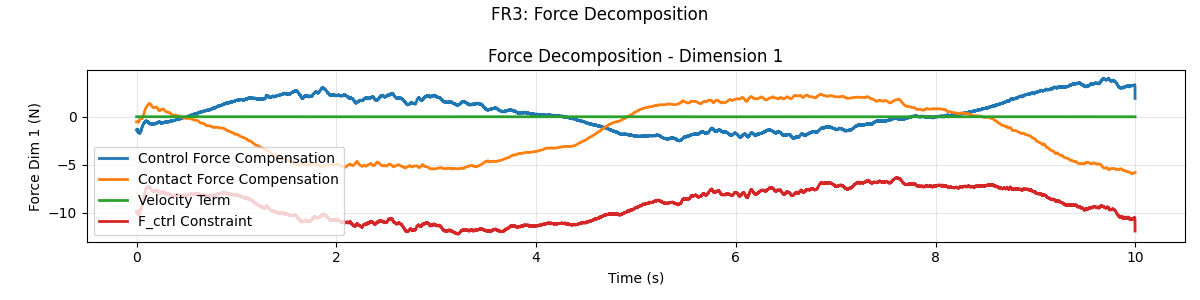
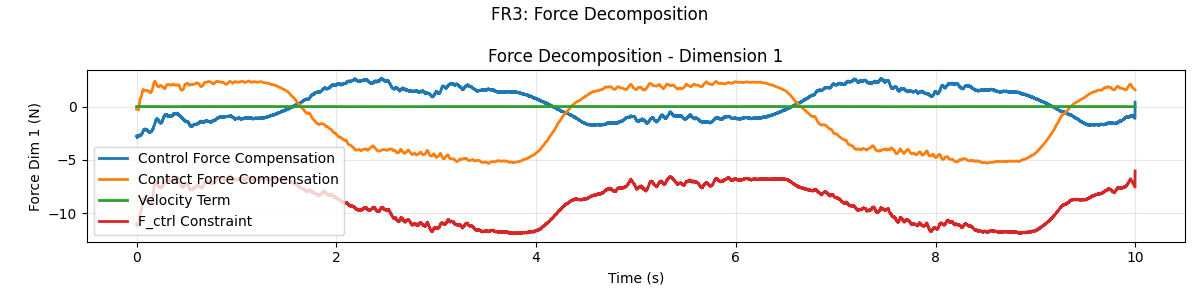
add cartesian sin traj

diff --git a/src/hybrid_controller.py b/src/hybrid_controller.py
@@ -103,6 +103,61 @@ def generate_line_trajectory_delta(elapsed_time: float,
 
     return x_desired, x_dot_desired, x_ddot_desired
 
+def generate_sinusoidal_trajectory(
+    elapsed_time: float,
+    start_pos: np.ndarray,
+    amplitude: float,
+    frequency: float,
+    R_slope: np.ndarray,
+    size_z: float
+) -> Tuple[np.ndarray, np.ndarray, np.ndarray]:
+    """
+    Generate desired position, velocity, and acceleration for sinusoidal trajectory.
+    
+    The trajectory moves in the -x direction (back and forth) with sinusoidal motion.
+    Perfect for observing friction effects at velocity reversals.
+    
+    Args:
+        elapsed_time: Elapsed time since start of motion
+        start_pos: Starting position (3D position, center of motion)
+        amplitude: Amplitude of sinusoidal motion (meters, e.g., 0.04 for ±4cm)
+        frequency: Frequency of oscillation (Hz, e.g., 0.5 for slow motion)
+        R_slope: Rotation matrix of the slope
+        size_z: Height offset on the surface
+    
+    Returns:
+        Tuple of (target_pos, x_dot_desired, x_ddot_desired)
+    """
+    omega = 2 * np.pi * frequency  # Angular frequency (rad/s)
+    
+    # Local coordinates (on the slope surface)
+    target_pos_local = np.zeros(3)
+    x_dot_desired_local = np.zeros(3)
+    x_ddot_desired_local = np.zeros(3)
+    
+    # Position: x(t) = A * sin(ωt)
+    # This oscillates between -A and +A in the x direction
+    target_pos_local[0] = amplitude * np.sin(omega * elapsed_time)
+    target_pos_local[1] = 0.0  # No motion in y
+    target_pos_local[2] = size_z  # Keep Z at surface height
+    
+    # Velocity: ẋ(t) = Aω * cos(ωt)
+    x_dot_desired_local[0] = amplitude * omega * np.cos(omega * elapsed_time)
+    x_dot_desired_local[1] = 0.0
+    x_dot_desired_local[2] = 0.0
+    
+    # Acceleration: ẍ(t) = -Aω² * sin(ωt)
+    x_ddot_desired_local[0] = -amplitude * omega**2 * np.sin(omega * elapsed_time)
+    x_ddot_desired_local[1] = 0.0
+    x_ddot_desired_local[2] = 0.0
+    
+    # Transform from local (slope) coordinates to world coordinates
+    return (
+        start_pos + (R_slope @ target_pos_local),
+        R_slope @ x_dot_desired_local,
+        R_slope @ x_ddot_desired_local
+    )
+
 @dataclass
 class HybridControllerConfig:
     """Configuration for hybrid force-impedance controller."""
@@ -313,16 +368,34 @@ class HybridController:
         #     self.end_pos, 
         #     5.0) 
 
+        # if elapsed < self.common_config.circle_duration:
+        #     self.target_pos, self.x_dot_desired, self.x_ddot_desired = \
+        #         generate_circle_trajectory(
+        #             elapsed,
+        #             self.common_config.circle_center,
+        #             self.common_config.circle_radius,
+        #             self.common_config.angular_speed,
+        #             self.R_slope,
+        #             self.common_config.size_z
+        #         )
+        # else:
+        #     # Stop after duration
+        #     self.x_dot_desired[:] = 0.0
+        #     self.x_ddot_desired[:] = 0.0
+        #     self.is_drawing = False
+
+        amplitude = 0.04  # 4cm amplitude → 8cm total range (±4cm)
+        frequency = 0.2
+
         if elapsed < self.common_config.circle_duration:
-            self.target_pos, self.x_dot_desired, self.x_ddot_desired = \
-                generate_circle_trajectory(
-                    elapsed,
-                    self.common_config.circle_center,
-                    self.common_config.circle_radius,
-                    self.common_config.angular_speed,
-                    self.R_slope,
-                    self.common_config.size_z
-                )
+            self.target_pos, self.x_dot_desired, self.x_ddot_desired = generate_sinusoidal_trajectory(
+                elapsed_time=elapsed,
+                start_pos=self.common_config.circle_center,
+                amplitude=amplitude,
+                frequency=frequency,
+                R_slope=self.R_slope,
+                size_z=0.0
+            )
         else:
             # Stop after duration
             self.x_dot_desired[:] = 0.0

diff --git a/utils_plot.py b/utils_plot.py
@@ -32,7 +32,7 @@ def plot_ee_positions(
         axes[i].legend(loc='upper right')
 
     axes[-1].set_xlabel('Time (s)')
-    plt.tight_layout()
+    # plt.tight_layout()
     fig.savefig(f"{plot_dir}/ee_positions.png", dpi=150)
     print(f"[PLOT] EE positions saved to {plot_dir}/ee_positions.png")
 
@@ -138,7 +138,7 @@ def plot_hybrid_results(
         timesteps, n_dim = contact_forces.shape
         t = np.arange(timesteps) * dt
 
-        fig = plt.figure(figsize=(8, 3 * n_dim))
+        fig = plt.figure(figsize=(12, 3 * n_dim))
         for i in range(n_dim):
             plt.subplot(n_dim, 1, i + 1)
             plt.plot(t, contact_forces[:, i], label="Contact force")
@@ -148,8 +148,8 @@ def plot_hybrid_results(
             plt.legend()
             plt.grid(True)
         fig.suptitle(f'{robot_name.upper()}: Contact Forces')
-        plt.tight_layout()
-        plt.savefig(f"{plot_dir}/hybrid_contact_forces_{robot_name}.png")
+        # plt.tight_layout()
+        plt.savefig(f"{plot_dir}/hybrid_contact_forces_{robot_name}.png", dpi=150)
 
     # ============================================================
     # Plot Force Decomposition Components

diff --git a/joint_position_swb.py b/joint_position_swb.py
@@ -35,11 +35,12 @@ def main() -> int:
         type=float,
         nargs=7,
         # default=[0.0, -0.785398163397, 0.0, -2.35619449019, 0.0, 1.57079632679, 0.785398163397],
-        # default=[0.0002, 0.1411, -0.0928, -2.0621, -0.0024, 2.2852, 0.7764],
+        default=[0.0002, 0.1411, -0.0928, -2.0621, -0.0024, 2.2852, 0.7764],
         # default=[0.0225, 0.7064, -0.0243, -2.3135, -0.0095, 3.0422, -0.2441], #circel center
         # default=[0.0222, 0.7526, -0.0251, -2.1784, -0.0089, 2.9499, -0.2435], #circel start point
         # default=[0.1543, 0.4641, -0.0974, -2.5512, -0.0034, 3.0328, 0.6699],
-        default=[0.1807, 0.6659, -0.1337, -2.1748, 0.1788, 2.8604, 0.6684], # scale circel start point
+        # default=[0.1807, 0.6659, -0.1337, -2.1748, 0.1788, 2.8604, 0.6684], # scale circel start point
+        default=[0.1376, 0.5954, -0.0836, -2.3269, 0.1185, 2.9249, 0.7046], # scale circel center point
         help="7 joint targets in rad (default: Franka start pose)",
     )
     parser.add_argument("--plot", action="store_true", help="Plot joint trajectories after motion")
